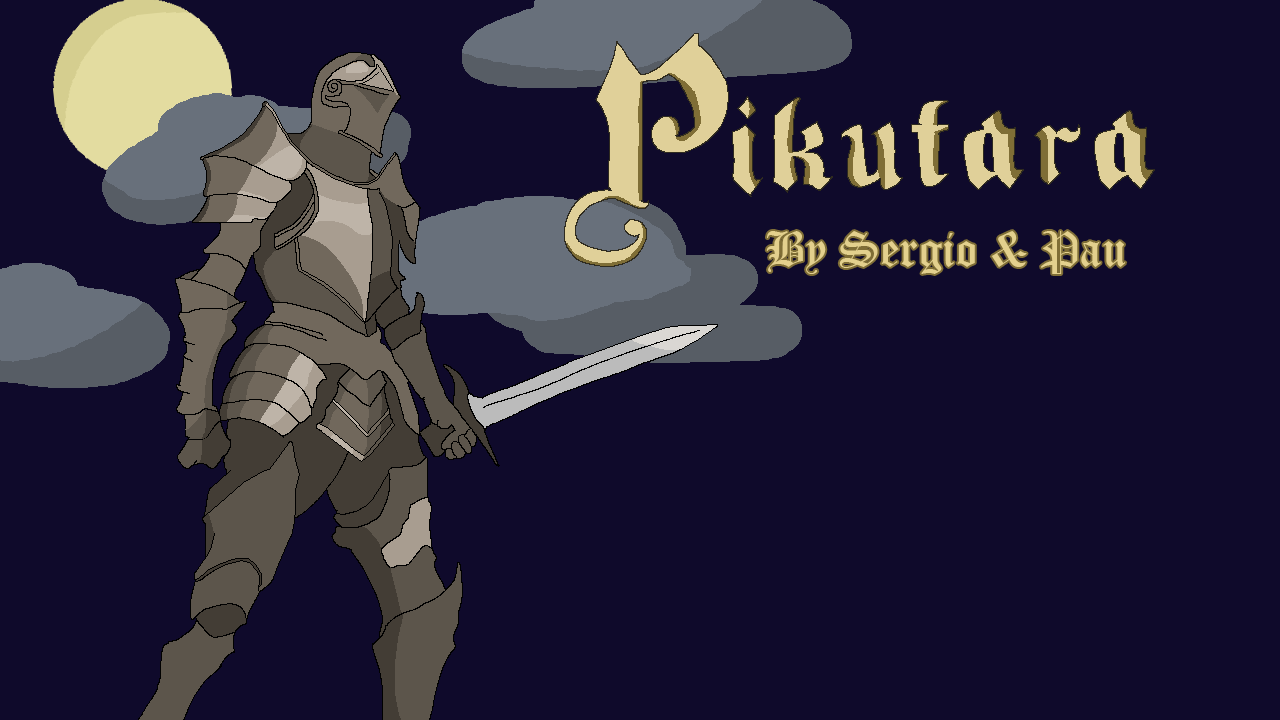
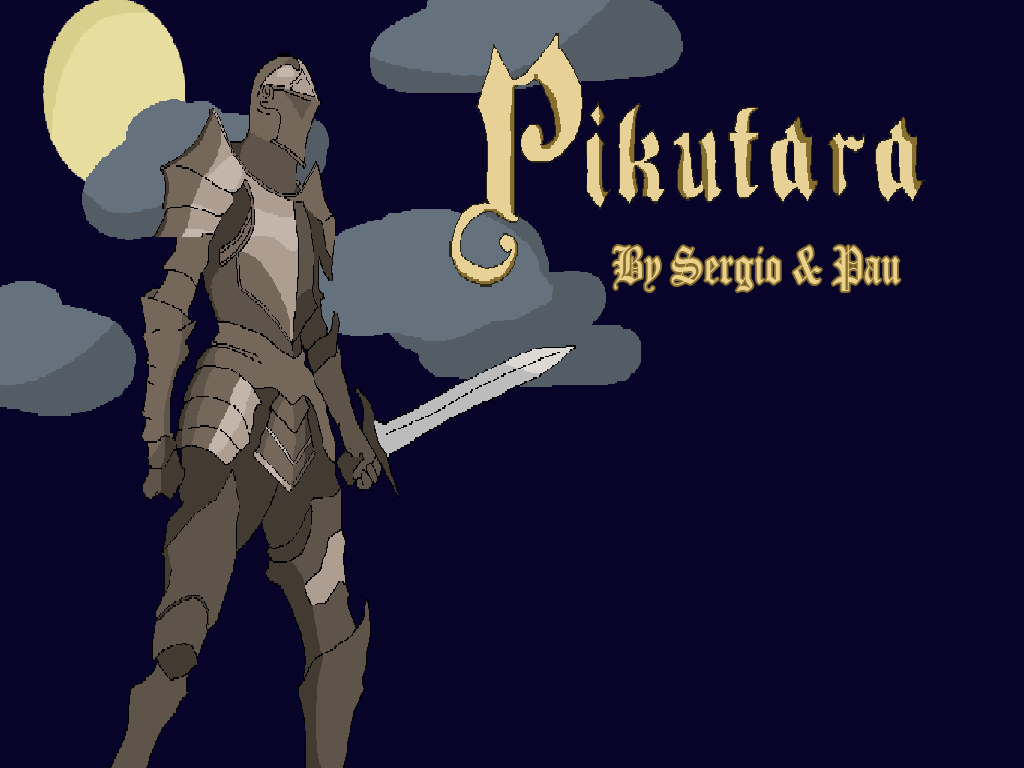
MenuDone

diff --git a/citm_desvj_project_template-A1_Assigment2_Template/Game/Source/SceneMenu.cpp b/citm_desvj_project_template-A1_Assigment2_Template/Game/Source/SceneMenu.cpp
@@ -9,6 +9,8 @@
 #include "Window.h"
 #include "Physics.h"
 #include "FadeToBlack.h"
+#include "Scene.h"
+#include "GuiManager.h"
 
 #include "Defs.h"
 #include "Log.h"
@@ -39,8 +41,29 @@ bool SceneMenu::Start()
 	LOG("Loading SceneMenu Assets");
 	bool ret = true;
 	MainMenu = app->tex->Load("Assets/UI/MainMenu.png");
+	playOff = app->tex->Load("Assets/UI/PlayOFF.png");
+	playOn = app->tex->Load("Assets/UI/PlayON.png");
+	contiuneOff = app->tex->Load("Assets/UI/ContinueOFF.png");
+	continueOn = app->tex->Load("Assets/UI/ContinueON.png");
+	settingsOff = app->tex->Load("Assets/UI/SettingsOFF.png");
+	settingsOn = app->tex->Load("Assets/UI/SettingsON.png");
+	creditsOff = app->tex->Load("Assets/UI/CreditsOFF.png");
+	creditsOn = app->tex->Load("Assets/UI/CreditsON.png");
+	exitOff = app->tex->Load("Assets/UI/ExitOFF.png");
+	exitOn = app->tex->Load("Assets/UI/ExitON.png");
 	
 
+	playButton = (GuiControlButton*)app->guiManager->CreateGuiControl(GuiControlType::BUTTON, 1, NULL, playOff, playOn, NULL, { 610, 310, 288, 73 }, this);
+	continueButton = (GuiControlButton*)app->guiManager->CreateGuiControl(GuiControlType::BUTTON, 2, NULL, contiuneOff, continueOn, NULL, { 610, 392,288, 73 }, this);
+	settingsButton = (GuiControlButton*)app->guiManager->CreateGuiControl(GuiControlType::BUTTON, 3, NULL, settingsOff, settingsOn, NULL, { 610, 474, 288, 73 }, this);
+	creditsButton = (GuiControlButton*)app->guiManager->CreateGuiControl(GuiControlType::BUTTON, 4, NULL, creditsOff, creditsOn, NULL, { 610, 556, 288, 73 }, this);
+	exitButton = (GuiControlButton*)app->guiManager->CreateGuiControl(GuiControlType::BUTTON, 5, NULL, exitOff, exitOn, NULL, { 610, 638, 288, 73 }, this);
+
+	playButton->state = GuiControlState::NORMAL;
+	continueButton->state = GuiControlState::NORMAL;
+	settingsButton->state = GuiControlState::NORMAL;
+	creditsButton->state = GuiControlState::NORMAL;
+	exitButton->state = GuiControlState::NORMAL;
 	//Get the size of the window
 	app->win->GetWindowSize(windowW, windowH);
 
@@ -64,13 +87,15 @@ bool SceneMenu::Update(float dt)
 {
 	//Draw
 	SDL_Rect RectfondoInicial{ 0,0,windowW,windowH };
-	app->render->DrawTexture(MainMenu, 0, 0, NULL, SDL_FLIP_NONE, 0);
-	if (app->input->GetKey(SDL_SCANCODE_SPACE) == KEY_DOWN)
+	app->render->DrawTexture(MainMenu, 0, 0, &RectfondoInicial, SDL_FLIP_NONE, 0);
+	if (playButton->state == GuiControlState::PRESSED)
 	{
 		app->fade->FadeToBlackScene(this, (Module*)app->scene, 60);
-		//goTimer = true;
-
-
+		app->guiManager->Disable();
+	}
+	else if (exitButton->state==GuiControlState::PRESSED)
+	{
+		SDL_Quit();
 	}
 
 	return true;

diff --git a/citm_desvj_project_template-A1_Assigment2_Template/Game/Source/SceneMenu.h b/citm_desvj_project_template-A1_Assigment2_Template/Game/Source/SceneMenu.h
@@ -3,6 +3,9 @@
 #define __SCENEMENU_H__
 
 #include "Module.h"
+#include "GuiManager.h"
+#include "GuiControl.h"
+#include "GuiControlButton.h"
 
 
 struct SDL_Texture;
@@ -50,6 +53,29 @@ private:
 	pugi::xml_node configNode;
 
 	SDL_Texture* MainMenu;
+
+	SDL_Texture* playOff;
+	SDL_Texture* playOn;
+
+	SDL_Texture* contiuneOff;
+	SDL_Texture* continueOn;
+
+	SDL_Texture* settingsOff;
+	SDL_Texture* settingsOn;
+
+	SDL_Texture* creditsOff;
+	SDL_Texture* creditsOn;
+	
+	SDL_Texture* exitOff;
+	SDL_Texture* exitOn;
+
+	GuiControlButton* playButton;
+	GuiControlButton* continueButton;
+	GuiControlButton* settingsButton;
+	GuiControlButton* creditsButton;
+	GuiControlButton* exitButton;
+
+	
 
 };
 
